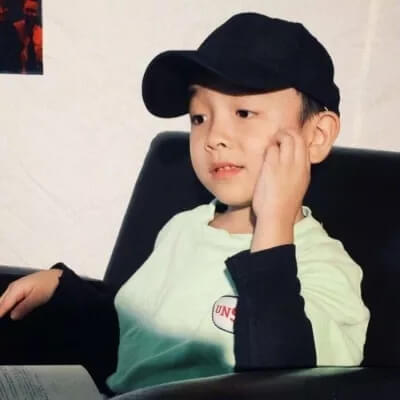
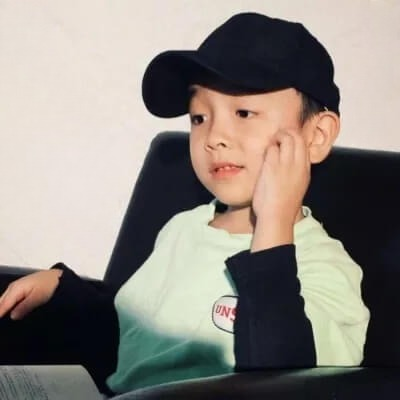
🎨 update img and config

Changed region(s): [[0.0, 0.0, 0.12, 0.21]]

diff --git a/docs/.vuepress/config/themeConfig.js b/docs/.vuepress/config/themeConfig.js
@@ -4,7 +4,7 @@ module.exports = {
   // 主题配置
   nav,
   sidebarDepth: 2, // 侧边栏显示深度，默认1，最大2（显示到h3标题）
-  logo: 'https://cdn.jsdelivr.net/gh/JS-banana/images/vuepress/logo.png', // 导航栏logo
+  logo: '/img/photo_nobg.png', // 导航栏logo
   repo: 'JS-banana/vuepress', // 导航栏右侧生成Github链接
   searchMaxSuggestions: 10, // 搜索结果显示最大数
   lastUpdated: '上次更新', // 更新的时间，及前缀文字   string | boolean (取值为git提交时间)
@@ -54,7 +54,7 @@ module.exports = {
   },
   blogger: {
     // 博主信息，显示在首页侧边栏
-    avatar: 'https://cdn.jsdelivr.net/gh/JS-banana/images/vuepress/photo.jpg',
+    avatar: '/img/photo.jpg',
     // avatar: '/img/photo.jpg',
     name: '前端小帅',
     slogan: '学而不思则罔，思而不学则殆',

diff --git a/README.md b/README.md
@@ -1,6 +1,6 @@
 <p align="center">
-  <a href="https://ssscode.com/" target="_blank" rel="noopener noreferrer">
-    <img width="180" src="https://cdn.jsdelivr.net/gh/JS-banana/images/vuepress/avatar-ssscode.jpg" alt="logo">
+  <a href="https://blog.ssscode.com/" target="_blank" rel="noopener noreferrer">
+    <img width="180" src="https://cdn.jsdelivr.net/gh/JS-banana/images/vuepress/photo.jpg" alt="logo">
   </a>
 </p>
 
@@ -28,15 +28,11 @@
   </a>
 </p>
 
-<h1 align="center">小帅的琐碎博客记录</h1>
+<h1 align="center">小帅の技术博客</h1>
 
 <h6 align="center">
   Github的部署：<a href="https://JS-banana.github.io/blog">https://JS-banana.github.io/blog</a>
 </h6>
 <h6 align="center">
-  个人服务器：<a href="http://ssscode.com/">http://ssscode.com/</a>
+  个人服务器：<a href="http://blog.ssscode.com/">http://blog.ssscode.com/</a>
 </h6>
-
-<p align="center">
-  同步部署至`GitHub Pages`、`Coding`等其他云服务商
-</p>
